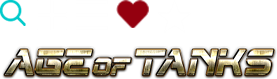
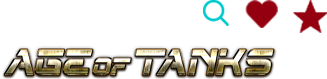
gameFi点赞收藏后图标补充

diff --git a/src/pages/gamefi/components/Banner/index.tsx b/src/pages/gamefi/components/Banner/index.tsx
@@ -5,13 +5,15 @@ import { Button, Carousel } from 'antd';
 import { RightOutlined } from '@ant-design/icons';
 import { history, useIntl } from 'umi';
 import { useRef, useState } from 'react';
+import { connect } from 'dva';
+
 interface objectT {
   [propName: string]: any;
 }
 
 const Banner = (props: objectT) => {
-  const { datas = {} } = props;
-  const { name, description, likeCount, starCount } = datas;
+  const { datas = {}, dispatch } = props;
+  const { name, description } = datas;
   const toDetail = () => {
     history.push(`/gamefi/${datas.id}`);
   };
@@ -23,6 +25,10 @@ const Banner = (props: objectT) => {
     id: 'GAMEFI_BANNER_AUTH',
   });
   const [count, setCount] = useState(0);
+  const [isLike, setIsLike] = useState<boolean>(false);
+  const [isStar, setIsStar] = useState<boolean>(false);
+  const [likeCount, setLinkCount] = useState<number>(datas.likeCount);
+  const [starCount, setStarCount] = useState<number>(datas.starCount);
   const carouselEl = useRef({} as objectT);
 
   const imgList = [
@@ -41,6 +47,61 @@ const Banner = (props: objectT) => {
     carouselEl.current.goTo(index);
     setCount(index);
   };
+  const changeStar = () => {
+    //收藏
+    let num = 0;
+    let data = {
+      gameId: datas.id,
+      userId: '22222',
+      likeStatus: '',
+    };
+    if (isStar) {
+      num = starCount - 1;
+      num = num < 0 ? 0 : num;
+      data.likeStatus = 'UNLIKE';
+    } else {
+      data.likeStatus = 'LIKE';
+      num = starCount + 1;
+    }
+    dispatch({
+      type: 'gamefi/gameStart',
+      payload: {
+        data,
+      },
+    }).then((res: objectT) => {
+      console.log('gameStar', res);
+      setStarCount(num);
+      setIsStar(!isStar);
+    });
+  };
+  const changeLike = () => {
+    //点赞
+    let num = 0;
+    let data = {
+      gameId: datas.id,
+      userId: '22222',
+      likeStatus: '',
+    };
+    if (isLike) {
+      num = likeCount - 1;
+      num = num < 0 ? 0 : num;
+      data.likeStatus = 'UNLIKE';
+    } else {
+      num = likeCount + 1;
+      data.likeStatus = 'LIKE';
+    }
+    dispatch({
+      type: 'gamefi/gameLike',
+      payload: {
+        data,
+      },
+    }).then((res: objectT) => {
+      console.log('gameLike', res);
+      setLinkCount(num);
+      setIsLike(!isLike);
+    });
+  };
+
   return (
     <section className={styles['banner']}>
       <div className={styles['flex']}>
@@ -61,12 +122,22 @@ const Banner = (props: objectT) => {
             <label>{authText}</label>
             <div className={styles['handle']}>
               <span>
-                <i className={`${icos['ico']} ${icos['ico-heart']} `}></i>
-                {likeCount}
+                <i
+                  onClick={changeStar}
+                  className={`${icos['ico']} ${
+                    isStar ? icos['ico-heart-on'] : icos['ico-heart']
+                  } `}
+                ></i>
+                {starCount}
               </span>
               <span>
-                <i className={`${icos['ico']} ${icos['ico-star']} `}></i>
-                {starCount}
+                <i
+                  onClick={changeLike}
+                  className={`${icos['ico']} ${
+                    isLike ? icos['ico-star-on'] : icos['ico-star']
+                  } `}
+                ></i>
+                {likeCount}
               </span>
             </div>
           </div>
@@ -95,4 +166,7 @@ const Banner = (props: objectT) => {
     </section>
   );
 };
-export default Banner;
+
+export default connect(({ gamefi }: { gamefi: objectT }) => ({
+  gamefi,
+}))(Banner);

diff --git a/src/pages/gamefi/components/Filters/index.tsx b/src/pages/gamefi/components/Filters/index.tsx
@@ -6,17 +6,20 @@ import React from 'react';
 import Filist from '../Filist';
 import { useIntl } from 'umi';
 import { connect } from 'dva';
-import { useEffect, useState } from 'react';
+import { useEffect, useState, useRef } from 'react';
 import PaginationItem from '@/components/Pagination';
 import Loading from '@/components/Loading';
 import Empty from '@/components/Empty';
+import { InputProps } from 'antd/lib/input';
 
 interface objectT {
   [propName: string]: any;
 }
+
 const Filters = (props: objectT) => {
   const intl = useIntl();
   const { dispatch, gamefi = {} } = props;
+  const inputRef = useRef<InputProps>(null);
   const GAMEFI_FILTERS_BTN = intl.formatMessage({
     id: 'GAMEFI_FILTERS_BTN',
   });
@@ -46,6 +49,7 @@ const Filters = (props: objectT) => {
   const [params, setParams] = useState<objectT>({
     pageNum: 1,
     pageSize: 10,
+    orderByType: 'Newest',
   });
   const plainOptions = ['All', 'Launched'];
   const plainOptions2 = ['All', 'Official', 'Testnet', 'Upcoming'];
@@ -91,7 +95,7 @@ const Filters = (props: objectT) => {
     setParams({ ...params, pageNum: 0, orderByType: value });
   };
   const changeNameFilter = () => {
-    setParams({ ...params, pageNum: 0, name: 'ccc' });
+    setParams({ ...params, pageNum: 0, name: inputRef.current?.input?.value });
   };
   const onPageChange = (e: number) => {
     setParams({ ...params, pageNum: e });
@@ -116,7 +120,7 @@ const Filters = (props: objectT) => {
     <div className={`wrapper `}>
       <div className={styles['filter-wrapper']}>
         <aside className={styles['search-box']}>
-          <Input placeholder={GAMEFI_FILTERS_SEARCH} />
+          <Input placeholder={GAMEFI_FILTERS_SEARCH} ref={inputRef} />
           <SearchOutlined onClick={changeNameFilter} />
         </aside>
         <aside className={styles['select-box']}>

diff --git a/src/models/gamefi.ts b/src/models/gamefi.ts
@@ -18,18 +18,6 @@ export default {
         [payload.name]: payload.data || {},
       };
     },
-    setListFilter(state: initialStateT, action: initialStateT) {
-      const { payload = {} } = action;
-      return { ...state };
-    },
-    setHotFilter(state: initialStateT, action: initialStateT) {
-      const { payload = {} } = action;
-      const hotFilter = { gamePopularCategory: payload };
-      return {
-        ...state,
-        hotFilter,
-      };
-    },
   },
   effects: {
     *getHotList(
@@ -66,6 +54,28 @@ export default {
     ) {
       const data: initialStateT = yield call(gameFiService.getData, payload);
       return data;
+    },
+    *gameStart(
+      { payload, callback }: initialStateT,
+      { call, put }: initialStateT,
+    ) {
+      try {
+        const data: initialStateT = yield call(gameFiService.gameStar, payload);
+        return data;
+      } catch (err) {
+        return Promise.reject(err);
+      }
+    },
+    *gameLike(
+      { payload, callback }: initialStateT,
+      { call, put }: initialStateT,
+    ) {
+      try {
+        const data: initialStateT = yield call(gameFiService.gameLike, payload);
+        return data;
+      } catch (err) {
+        return Promise.reject(err);
+      }
     },
   },
 };

diff --git a/src/pages/gamefi/icon.scss b/src/pages/gamefi/icon.scss
@@ -2,17 +2,16 @@
   background: url("../../assets/gamefi/img/ico.png") no-repeat;
   display: block;
 }
-.ico-srearch{height:26px;width:26px;background-position: 0 0;}
+.ico-srearch{height:26px;width:26px;background-position: -203px 0;}
 .ico-blocks{height:30px;width:31px;background-position: -36px 0;}
 .ico-list{height:30px;width:32px;background-position: -76px 0;}
 .ico-heart{height:28px;width:33px;background-position: -116px 0;}
 .ico-star{height:33px;width:34px;background-position: -157px 0;}
 .ico-detaillabel{height:34px;width:277px;background-position: 0 -45px;}
+.ico-heart-on{height:28px;width:33px;background-position: -245px 0;}
+.ico-star-on{height:33px;width:34px;background-position: -293px 0;}
 
-.ico-list,.ico-blocks{
-  cursor: pointer;
-}
-.ico-heart,.ico-star{
+.ico-list,.ico-blocks,.ico-heart,.ico-star,.ico-heart-on,.ico-star-on{
   cursor: pointer;
   margin-right: 4px;
 }

diff --git a/src/services/gamefi.ts b/src/services/gamefi.ts
@@ -5,7 +5,8 @@ interface objectT {
   [propName: string]: any;
 }
 export const getList: objectT = async (params: objectT) => {
-  return request(`/center/game/list/`, {
+  console.log('getlist', params);
+  return request(`/center/game/list?${stringify(params.data)}`, {
     method: 'GET',
   });
 };
@@ -20,12 +21,18 @@ export const getData: objectT = async (params: objectT) => {
   });
 };
 export const gameStar: objectT = async (params: objectT) => {
+  // return request(`/center/game/star`, {
+  //   method: 'POST',
+  //   data: params.data,
+  // });
+  console.log(params.data);
   return request(`/center/game/star`, {
     method: 'POST',
     data: params.data,
   });
 };
 export const gameLike: objectT = async (params: objectT) => {
+  console.log(params.data);
   return request(`/center/game/like`, {
     method: 'POST',
     data: params.data,
